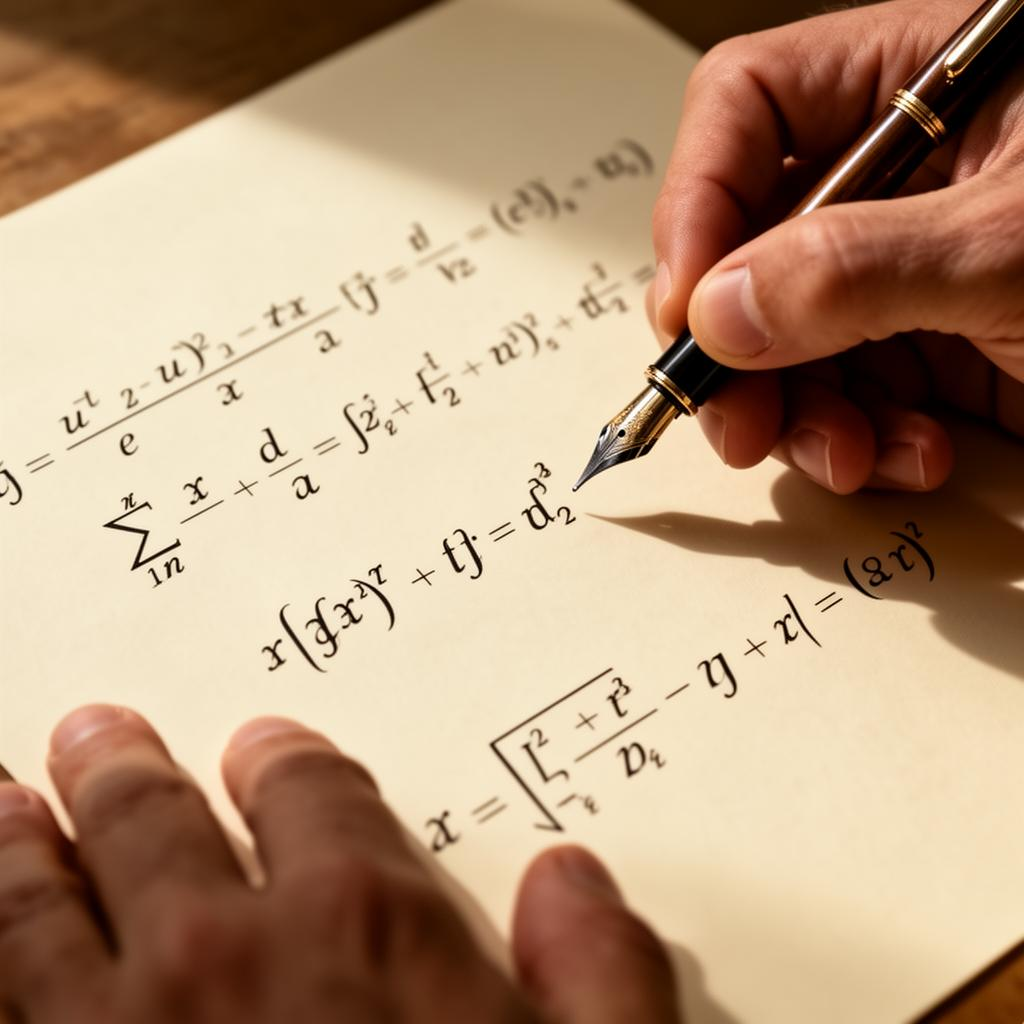
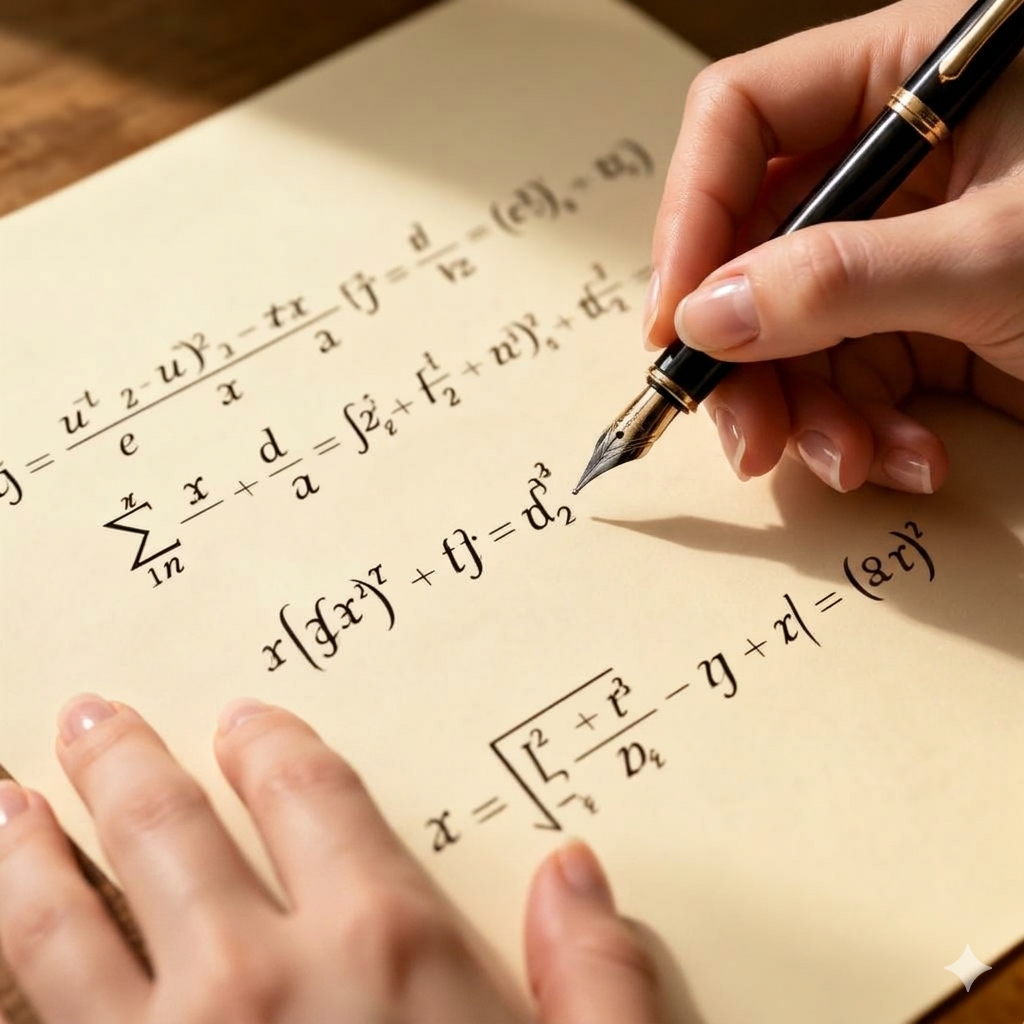
little modifications

Changed region(s): [[0.5625, 0.0, 1.0, 0.6875], [0.0, 0.6562, 0.7188, 1.0], [0.9062, 0.9062, 0.9688, 0.9688]]

diff --git a/src/App.jsx b/src/App.jsx
@@ -128,13 +128,17 @@ export default function App() {
     });
   });
 
+  const createRipple = (x, y) => {
+    const id = Date.now() + Math.random().toString(36).substr(2, 9);
+    setClickRipples((prev) => [...prev, { id, x, y }]);
+    setTimeout(() => {
+      setClickRipples((prev) => prev.filter((r) => r.id !== id));
+    }, 600);
+  };
+
   useEffect(() => {
     const handleClick = (e) => {
-      const id = Date.now() + Math.random().toString(36).substr(2, 9);
-      setClickRipples((prev) => [...prev, { id, x: e.clientX, y: e.clientY }]);
-      setTimeout(() => {
-        setClickRipples((prev) => prev.filter((r) => r.id !== id));
-      }, 600);
+      createRipple(e.clientX, e.clientY);
       setActiveCardId(null);
     };
 
@@ -144,6 +148,7 @@ export default function App() {
 
   const handleCardClick = (e, cardId) => {
     e.stopPropagation();
+    createRipple(e.clientX, e.clientY);
     setActiveCardId((prev) => (prev === cardId ? null : cardId));
   };
 
